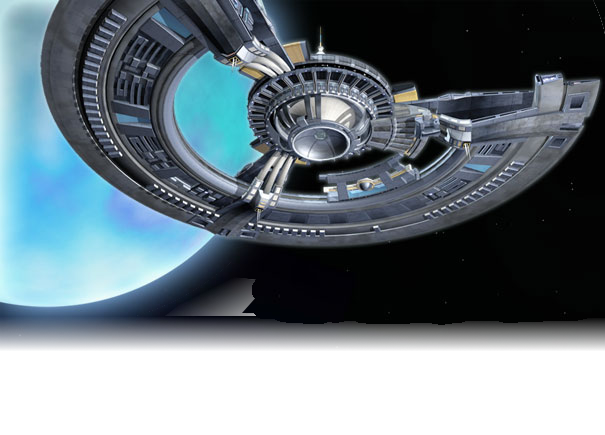
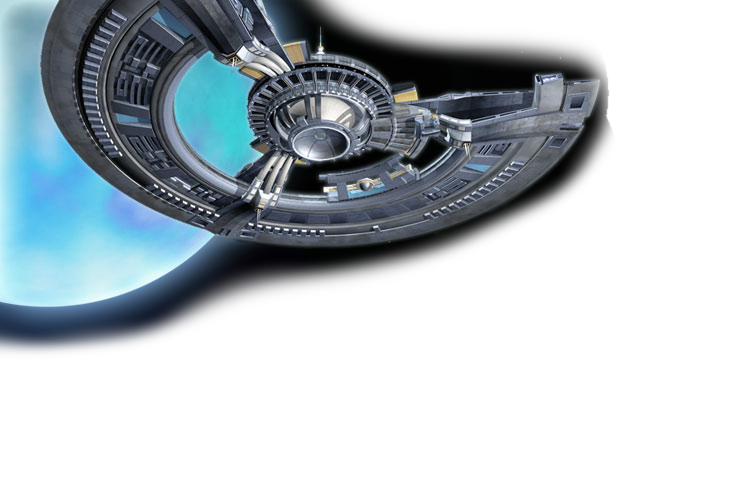
Use cleaned up background images
Thanks @ri0t

diff --git a/assets/static/css/c-base.css b/assets/static/css/c-base.css
@@ -44,7 +44,7 @@ body {
   margin: 0;
   padding: 0;
   font-family: var(--font-sans-serif);
-  background: url(../img/c-base_raumstation.gif) 50% calc(var(--navigation-burger-height) + var(--logo-top)) no-repeat, url(../img/stars_only.jpg) repeat, #020303;
+  background: url(../img/c-base_raumstation.gif) 50% calc(var(--navigation-burger-height) + var(--logo-top)) no-repeat, url(../img/stars_only.png) repeat, #020303;
   display: flex;
   flex-flow: column;
 }
@@ -278,7 +278,7 @@ a.button.full-width {
 
 @media screen and (min-width: 64em) {
   body {
-    background: url(../img/c-base_raumstation.gif) 50% var(--logo-top-with-navigation) no-repeat, url(../img/stars_only.jpg) repeat, #020303;
+    background: url(../img/c-base_raumstation.gif) 50% var(--logo-top-with-navigation) no-repeat, url(../img/stars_only.png) repeat, #020303;
   }
 
   main {

diff --git a/assets/static/css/home.css b/assets/static/css/home.css
@@ -54,7 +54,7 @@ main {
 
 @media screen and (min-width: 64em) {
   body {
-    background: url(../img/c-base_raumstation.gif) 435px 25px no-repeat, url(../img/planet_base.png) no-repeat, url(../img/stars_only.jpg) repeat, #020303;
+    background: url(../img/c-base_raumstation.gif) 435px 25px no-repeat, url(../img/planet_base.png) no-repeat, url(../img/stars_only.png) repeat, #020303;
   }
 
   main {
